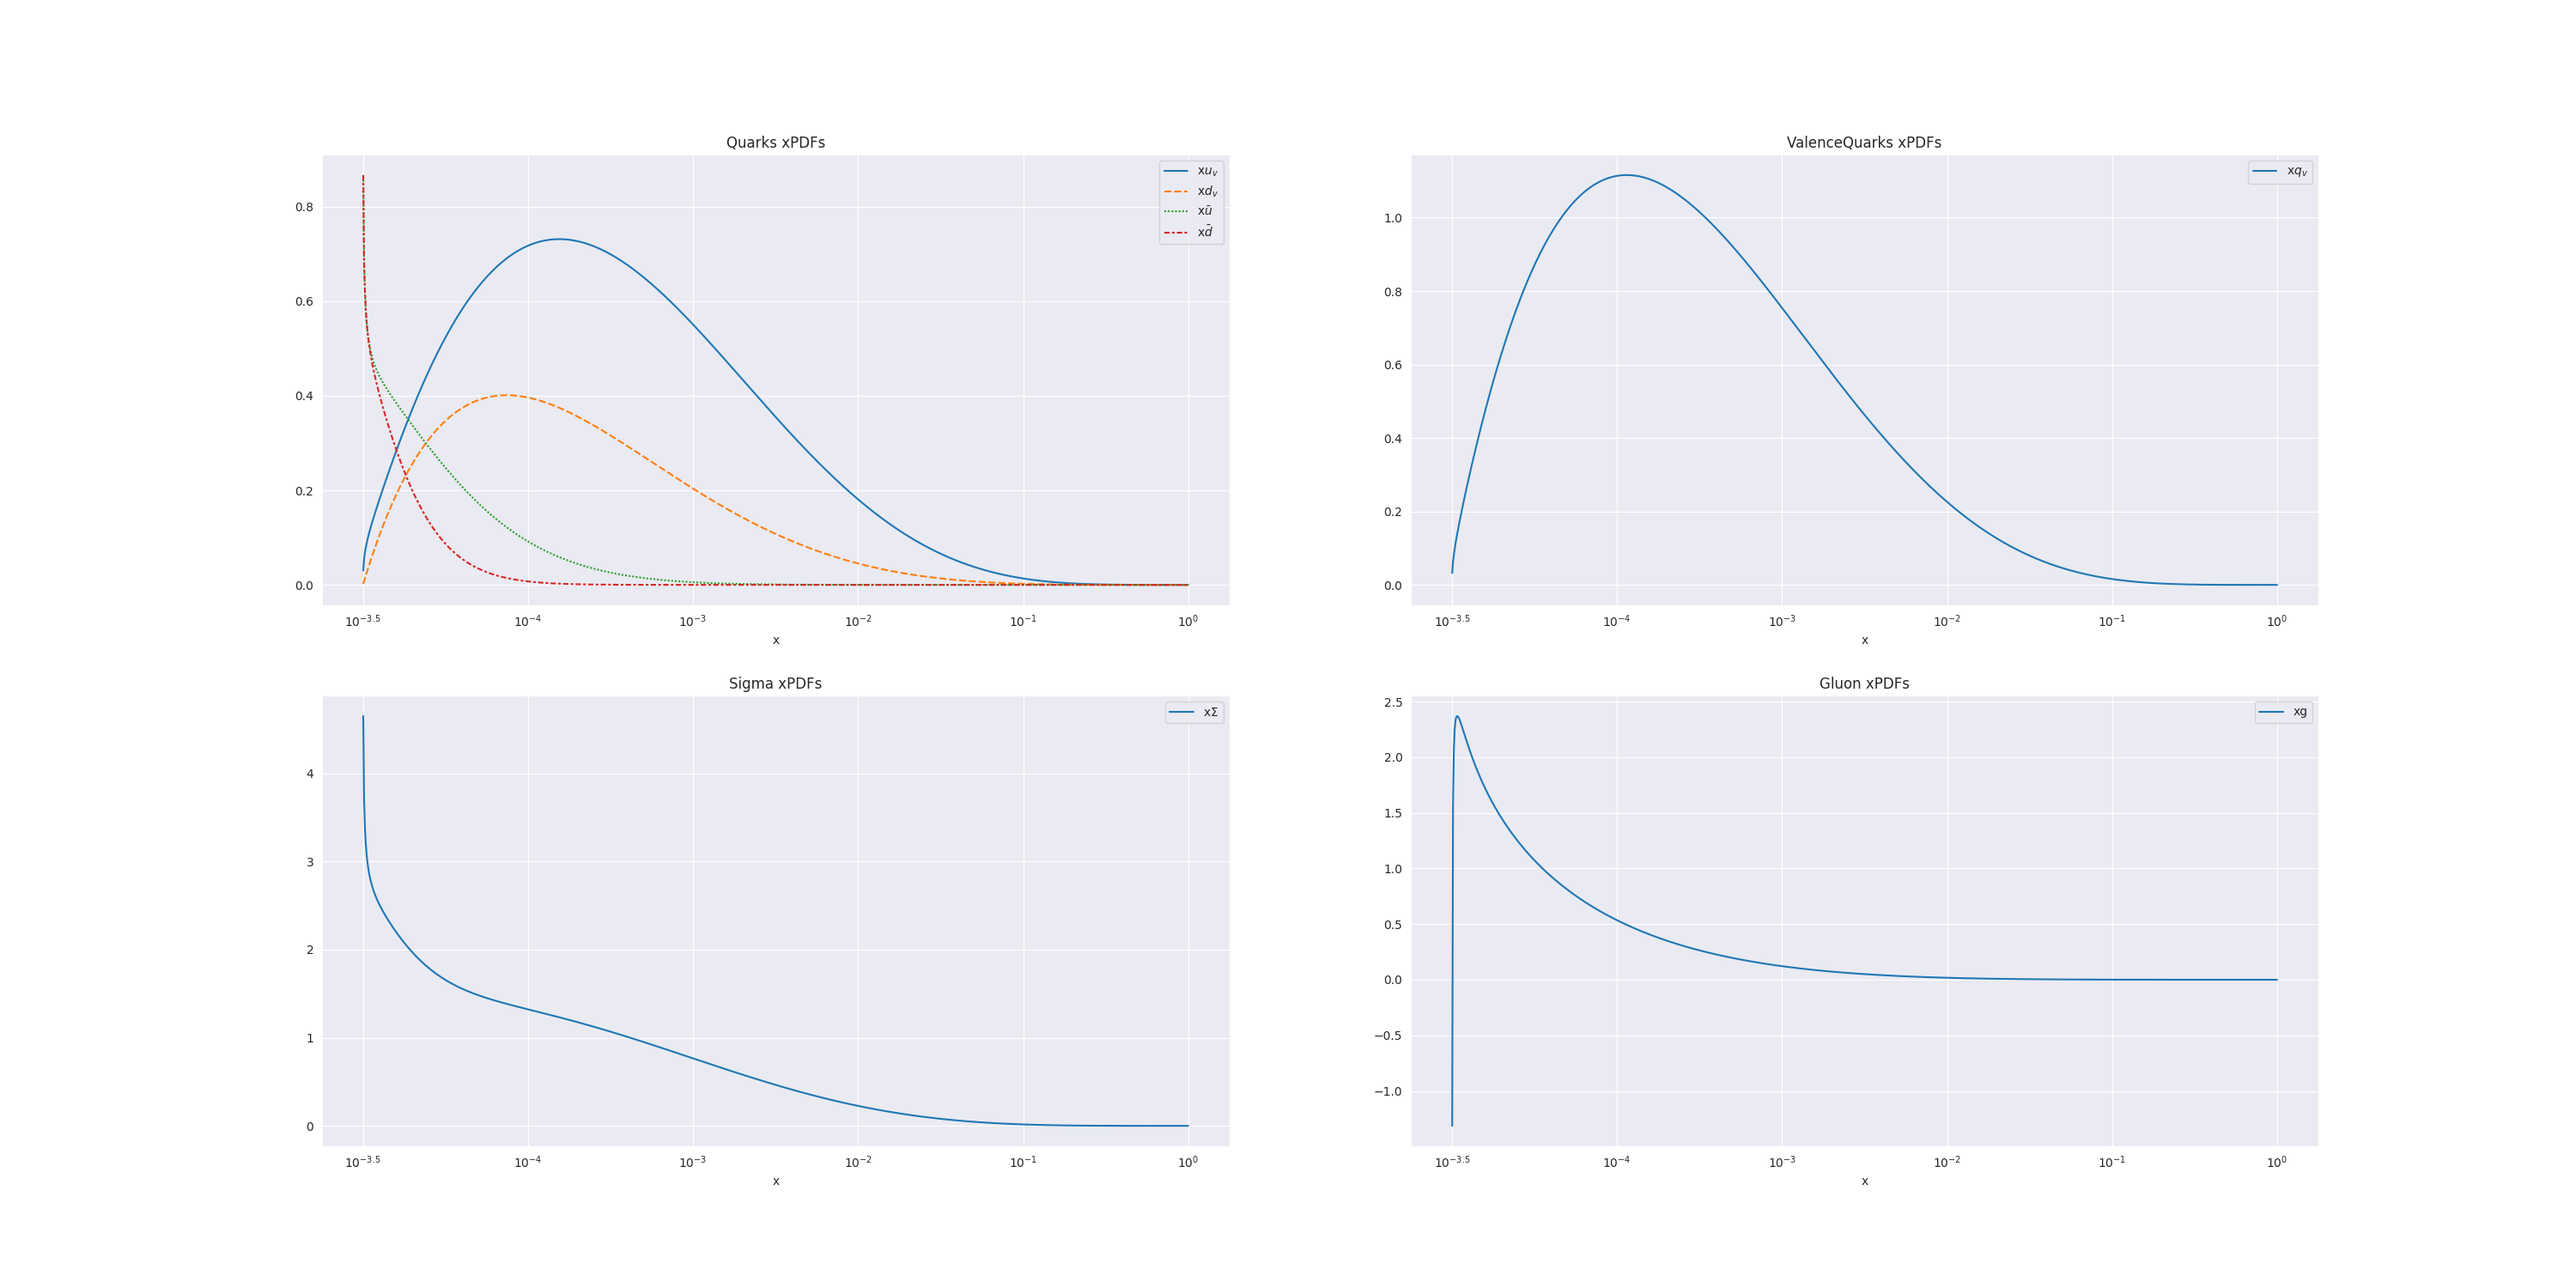
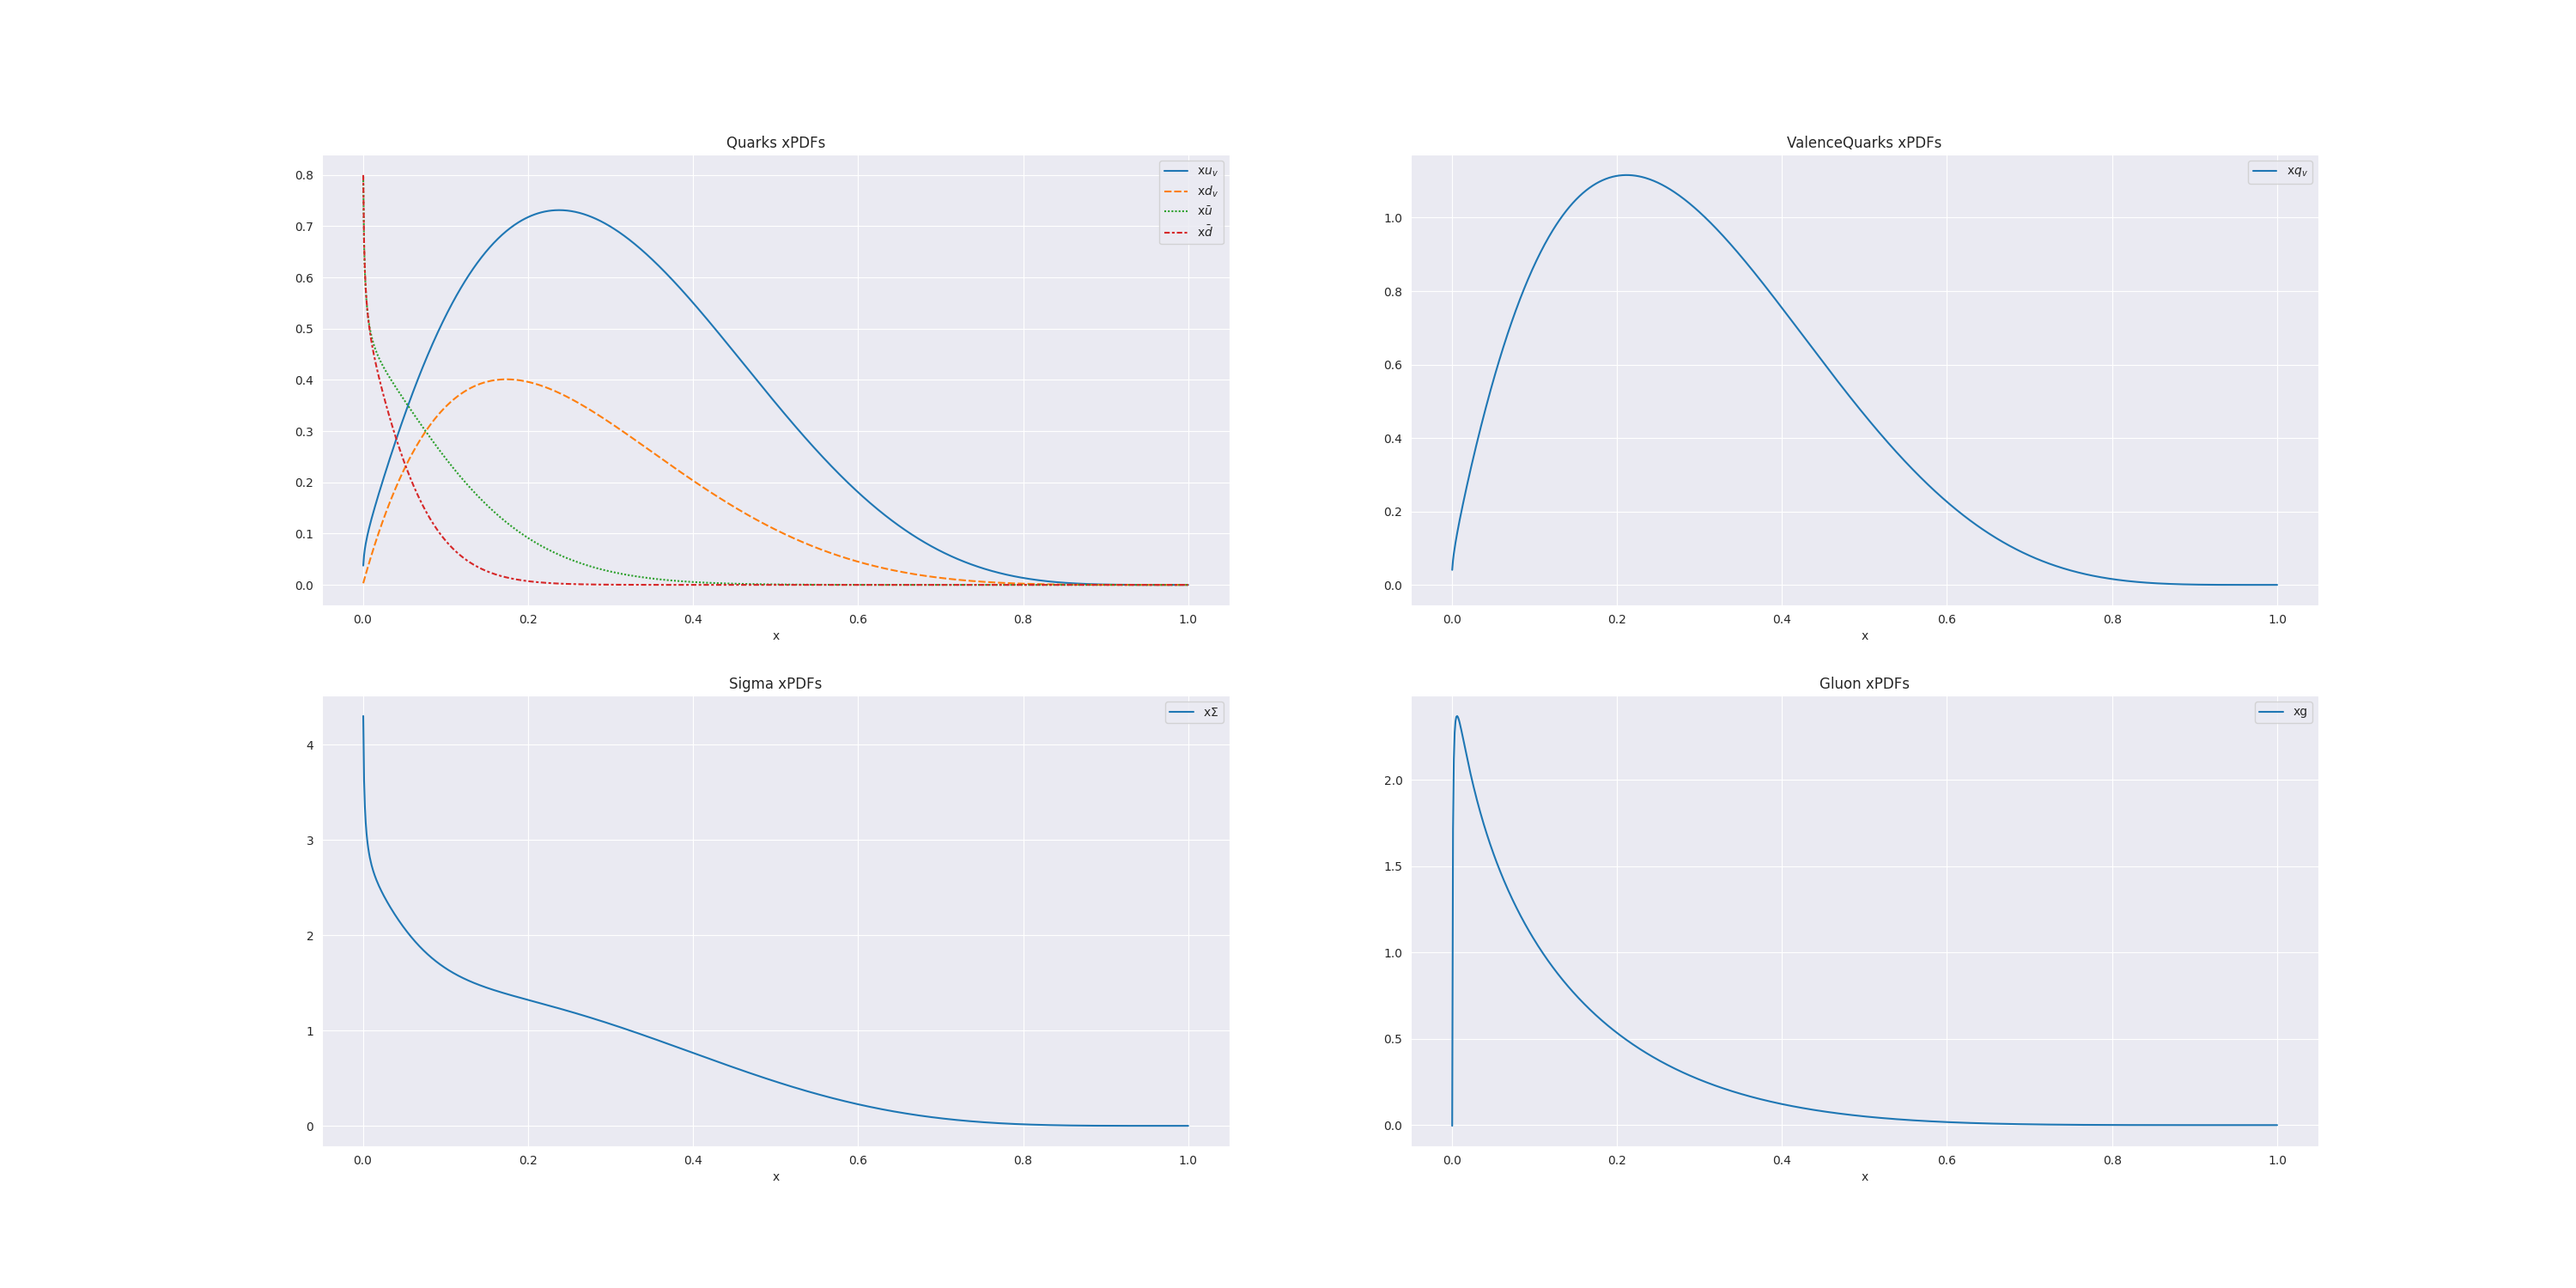
python script and img at q0 with good initial x position

diff --git a/fixedparameterscalculation_and_xpdfq0graph.py b/fixedparameterscalculation_and_xpdfq0graph.py
@@ -87,7 +87,7 @@ print("A_g: ", A_g)
 # ------------------------------------------------------------------------------------------------------------------------------    
 # -----------------------------------------------xPDFS GRAPHS-------------------------------------------------------------------
 # ------------------------------------------------------------------------------------------------------------------------------   
-x = np.linspace(10**(-3.5), 10**(0), 1000)
+x = np.linspace(5.2427e-4, 1, 1000)
 
 # Parton Distribution Functions (PDFs)
 def x_pdf(x, A, B, C , D, E, F, G):
@@ -121,9 +121,9 @@ q_graph.set(xlabel = 'x', title='Quarks xPDFs')
 qv_graph.set(xlabel = 'x', title='ValenceQuarks xPDFs')
 sigma_graph.set(xlabel = 'x', title='Sigma xPDFs')
 g_graph.set(xlabel = 'x', title='Gluon xPDFs')
-q_graph.set_xticks([0, 0.2, 0.4, 0.6, 0.8, 1], ["$10^{-3.5}$", "$10^{-4}$", "$10^{-3}$", "$10^{-2}$", "$10^{-1}$", "$10^{0}$"])
-qv_graph.set_xticks([0, 0.2, 0.4, 0.6, 0.8, 1], ["$10^{-3.5}$", "$10^{-4}$", "$10^{-3}$", "$10^{-2}$", "$10^{-1}$", "$10^{0}$"])
-sigma_graph.set_xticks([0, 0.2, 0.4, 0.6, 0.8, 1], ["$10^{-3.5}$", "$10^{-4}$", "$10^{-3}$", "$10^{-2}$", "$10^{-1}$", "$10^{0}$"])
-g_graph.set_xticks([0, 0.2, 0.4, 0.6, 0.8, 1], ["$10^{-3.5}$", "$10^{-4}$", "$10^{-3}$", "$10^{-2}$", "$10^{-1}$", "$10^{0}$"])
+#q_graph.set_xticks([0, 0.2, 0.4, 0.6, 0.8, 1], ["$5.24^{-4}$", "$10^{-4}$", "$10^{-3}$", "$10^{-2}$", "$10^{-1}$", "$10^{0}$"])
+#qv_graph.set_xticks([0, 0.2, 0.4, 0.6, 0.8, 1], ["$5.24^{-4}$", "$10^{-4}$", "$10^{-3}$", "$10^{-2}$", "$10^{-1}$", "$10^{0}$"])
+#sigma_graph.set_xticks([0, 0.2, 0.4, 0.6, 0.8, 1], ["$5.24^{-4}$", "$10^{-4}$", "$10^{-3}$", "$10^{-2}$", "$10^{-1}$", "$10^{0}$"])
+#g_graph.set_xticks([0, 0.2, 0.4, 0.6, 0.8, 1], ["$5.24^{-4}$", "$10^{-4}$", "$10^{-3}$", "$10^{-2}$", "$10^{-1}$", "$10^{0}$"])
 #plt.show()
 plt.savefig("imgs/python/xpdfs_q0.png")
